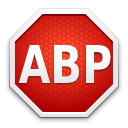
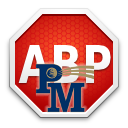
First 'Official' Release
Updates branding and fork information

Changed region(s): [[0.2812, 0.4688, 0.75, 0.875]]

diff --git a/background.js b/background.js
@@ -208,7 +208,8 @@ function addSubscription(prevVersion)
   {
     ext.windows.getLastFocused(function(win)
     {
-      win.openTab(ext.getURL("firstRun.html"));
+      // Do not notify user
+      // win.openTab(ext.getURL("firstRun.html"));
     });
   }
 
